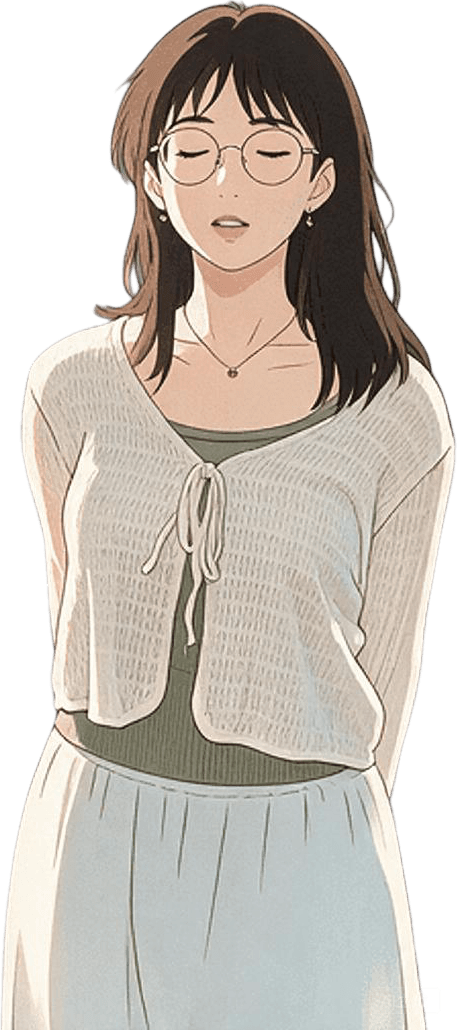
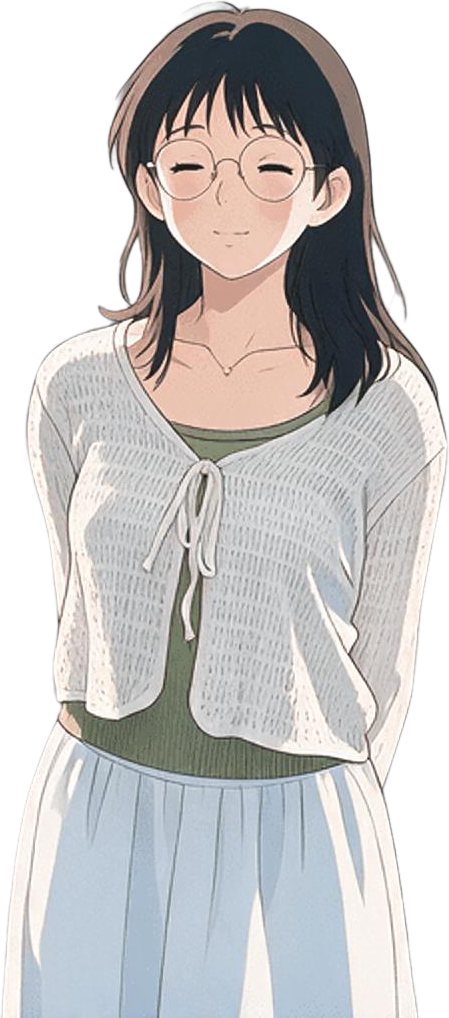
M109: 女角更少女+暗色融合/trio 演示合并飞鸟背景/手机竖屏/手写词标/站名归一（LESSONS 212-217）

diff --git a/site/assets/site.css b/site/assets/site.css
@@ -687,3 +687,51 @@ body::before { content: ""; position: fixed; inset: 0; z-index: 55; pointer-even
 .doorart { opacity: .5; z-index: 0; }
 .meng3 { right: 16.5%; }
 #tail { min-height: auto; padding-bottom: 70px; }
+
+/* ---------- M109-B trio+演示合并一块 ---------- */
+#trio .secinner { padding-bottom: 0; margin-bottom: 0; }
+#trio .ftabs { margin-top: 1svh; position: relative; z-index: 2; }
+#trio #animstage { margin-top: 8px; position: relative; z-index: 2; }
+#trio .cue { margin-top: 2svh; }
+.cloudlayer .cl { background: radial-gradient(50% 50% at 50% 50%, rgba(255, 255, 255, .06), transparent 70%); }
+#trio .cloudlayer .cl { background: radial-gradient(50% 50% at 50% 50%, rgba(255, 255, 255, .06), transparent 70%); }
+#animstage { background: radial-gradient(46% 38% at 50% 56%, color-mix(in srgb, var(--card) 6%, transparent), transparent 80%); }
+.triopairs, .triopair, .triopair .tie, .triomots, .worldchips { display: none !important; }
+
+/* ---------- M109-D 手写词标 ---------- */
+.wordmark { height: 20px; width: auto; margin-left: 2px; opacity: .92; user-select: none; }
+.wordmark--ft { height: 15px; opacity: .8; }
+:root[data-theme="dark"] .wordmark { opacity: .85; }
+
+/* ---------- M109-A 暗色女角融合 ---------- */
+:root[data-theme="dark"] #prologue .bigchar { filter: saturate(.84) contrast(.99) brightness(.88) drop-shadow(0 0 26px rgba(143, 208, 255, .12)); }
+
+/* ---------- M109-C 手机竖屏 ---------- */
+@media (max-width: 640px) {
+  #prologue .secinner.panel-left { padding-top: 12svh; }
+  #prologue .charwrap { height: 42svh; right: -4%; opacity: .96; }
+  #prologue .ident-bg .idf-video.on { opacity: .10; }
+  #petpark .charwrap { height: 38svh; }
+  .meng2 { display: none; }
+  .meng3 { height: 26svh; right: 4%; bottom: 6%; }
+  .doorart { display: none; }
+  #petpark .sketch, #trio .sketch { width: 120px !important; height: 160px !important; }
+  #trio .ftabs { margin-top: 1svh; overflow-x: auto; }
+  #trio #animstage { margin-top: 0; }
+  #trio #animstage svg { transform: none; width: 100%; height: auto; }
+  .proto-layout { grid-template-columns: minmax(0, 1fr) !important; }
+  .pagechips { flex-wrap: wrap; }
+  #tail .cards { grid-template-columns: 1fr; }
+  header.top .wrap { gap: 8px; }
+  .wordmark { height: 16px; }
+  .rail { display: none; }
+}
+
+/* ---------- M109-C2 手机竖屏修正 ---------- */
+@media (max-width: 640px) {
+  #prologue h1, #prologue .ph-title { font-size: clamp(24px, 7.6vw, 34px); line-height: 1.28; }
+  #prologue .charwrap { position: absolute; right: -10%; bottom: 2%; height: 40svh; width: auto; z-index: 0; }
+  #prologue .secinner { position: relative; z-index: 2; }
+  .copycap { max-width: 94vw; }
+  .copycap code { display: inline-block; vertical-align: middle; max-width: 58vw; overflow: hidden; text-overflow: ellipsis; white-space: nowrap; font-size: 10.5px; }
+}

diff --git a/site/assets/site.js b/site/assets/site.js
@@ -177,6 +177,7 @@
     // M94: logo 动图/标签图标随主题切换
     const lockSrc = `assets/logo-anim-${state.theme === "dark" ? "dark" : "light"}.webp`;
     document.querySelectorAll(".logolock").forEach((im) => { im.src = lockSrc; });
+    document.querySelectorAll(".wordmark").forEach((im) => { im.src = `assets/wordmark-${state.theme === "dark" ? "dark" : "light"}.png`; });
     const favs = [...document.querySelectorAll('link[rel="icon"]')];
     favs.forEach((fav) => { fav.href = state.theme === "dark" ? "assets/favicon-dark.png" : "assets/favicon.png"; });
 
@@ -387,7 +388,6 @@
     { const sel = document.getElementById("expselect"); if (sel && a) sel.value = a.app; }
     const side = document.getElementById("side");
     if (!a || !side) return;
-    document.title = `${L(a.name, a.app)} — design-clone gallery`;
     document.getElementById("stageframe").src = protoSrc(a, state.theme);
     const chips = document.getElementById("pagechips");
     if (chips) {
@@ -439,8 +439,8 @@
     // M91: logo 锁定为用户新标图片（mark+手写体锁排），替代渐变字标
     const LOCKSRC = () => `assets/logo-anim-${state.theme === "dark" ? "dark" : "light"}.webp`;
     const LOCK = (cls) => `<img class="${cls}" src="${LOCKSRC()}" alt="design-clone">`;
-    document.querySelectorAll(".logo").forEach((el) => { if (!el.querySelector(".logolock")) el.innerHTML = LOCK("logolock"); });
-    document.querySelectorAll(".ftbrand").forEach((el) => { el.innerHTML = LOCK("logolock logolock--ft"); });
+    document.querySelectorAll(".logo").forEach((el) => { if (!el.querySelector(".logolock")) el.innerHTML = LOCK("logolock") + '<img class="wordmark" src="assets/wordmark-light.png" alt="design-clone">'; });
+    document.querySelectorAll(".ftbrand").forEach((el) => { el.innerHTML = LOCK("logolock logolock--ft") + '<img class="wordmark wordmark--ft" src="assets/wordmark-light.png" alt="design-clone">'; });
 
     matchMedia("(max-width: 820px)").addEventListener("change", () => { if (document.getElementById("stageframe")) renderProto(); });
     const idn = document.getElementById("ident");

diff --git a/site/index.html b/site/index.html
@@ -103,11 +103,6 @@
   <div class="wrap secinner panel-center" data-rv>
     <span class="eyebrow" data-i18n="s4_eye">night rain front · three familiar worlds</span>
     <div class="ph-title" data-i18n="s4_t">Study replicas, faithfully cloned</div>
-    <div class="triopairs">
-      <span class="triopair"><span class="mot"><img src="assets/sk-cue.png" alt=""><i data-i18n="m_wechat">paper-plane cloud</i></span><span class="tie" aria-hidden="true"></span><button class="worldbtn" data-app="wechat" data-i18n="w_wechat">WeChat</button></span>
-      <span class="triopair"><span class="mot"><img src="assets/sk-cue.png" alt=""><i data-i18n="m_lark">birds across the moon</i></span><span class="tie" aria-hidden="true"></span><button class="worldbtn" data-app="lark" data-i18n="w_lark">Lark</button></span>
-      <span class="triopair"><span class="mot"><img src="assets/sk-cue.png" alt=""><i data-i18n="m_aliyun">sea of clouds</i></span><span class="tie" aria-hidden="true"></span><button class="worldbtn" data-app="aliyun-console" data-i18n="w_aliyun">Aliyun</button></span>
-    </div>
   </div>
 
     <div class="ftabs" id="ftabs"></div>

diff --git a/site/assets/demo-anim.js b/site/assets/demo-anim.js
@@ -11,7 +11,7 @@
 
   /* M81-W2: 可辨认迷你 UI 引导动画——每场景=品牌色板+真实微文案的矢量迷你界面（借 enrich/brief 经验） */
   const glow = `
-    <ellipse cx="260" cy="150" rx="252" ry="142" fill="var(--bg2)" opacity=".7"/>
+    <ellipse cx="260" cy="150" rx="252" ry="142" fill="var(--bg2)" opacity=".22"/>
     <circle cx="90" cy="70" r="60" fill="var(--acc)" opacity=".07"/>
     <circle cx="440" cy="220" r="70" fill="var(--acc2)" opacity=".08"/>`;
   const T = (x, y, str, size, fill, anchor, weight) => `<text x="${x}" y="${y}" font-size="${size}" fill="${fill}"${anchor ? ` text-anchor="${anchor}"` : ""}${weight ? ` font-weight="${weight}"` : ""} font-family="ui-rounded,-apple-system,'PingFang SC',sans-serif">${str}</text>`;

diff --git a/docs/LESSONS.md b/docs/LESSONS.md
@@ -240,3 +240,9 @@
 209. M108 默认值多源=错配 bug：expselect 用白名单序、embed 用 index 序→pill 与舞台不同步。教训：**同一语义的默认值只能有一个源**（WL_ORDER 常量），其余消费方一律反向同步（sel.value=a.app），e2e 断言多源一致。
 210. M108 CLI 传 base64 有 ARG_MAX 墙（~1MB）：照片原图 base64 进 argv 直接 "Argument list too long"。教训：生图参考图先 sharp 缩到 ≤768px/≤150KB 再入参；JSON 数组字符串元素必须带内引号（`["data:..."]`）。
 211. M108 sharp palette PNG 量化会毁 alpha 通道（角像素 0→255）：透明层优化用 `png({compressionLevel:9})` 无损，禁 palette；门（e2e alpha 审计）当场抓出。
+212. M109 i18n 空串=隐形件：`el.textContent = t(key)` 在词典缺键时写空串→微信/阿里云母题对整块隐形（用户只见飞书对）。教训：t() 缺键必须回退 EN 或原文本；e2e 加"可见交互件计数"断言防隐形。
+213. M109 双负 margin 相撞：ftabs -15svh + animstage -4svh 让舞台 cap 压住 chips 行→点击被拦截 e2e 超时。教训：负 margin 只允许单层牵引；相邻块叠压先 elementFromPoint 验点击点。
+214. M109 "白蛋"不在 CSS 层：cloudlayer/secbg/径向全调遍仍见蛋→真凶是 demo-anim.js svg 内部 `<ellipse fill=var(--bg2) opacity=.7>`。教训：截图里的几何色块先问"是不是插画自带"，grep 生成器源码再调 CSS。
+215. M109 抠白词标底噪：alpha=(255-lum) 线性映射把纸纹噪点留成低 alpha  veil→暗色头部出现矩形底。教训：抠白必须带噪点阈值（a<60 清零）再 gamma 拉升；暗色版重着色前先看噪。
+216. M109 seedream pro 尺寸下限 921600 像素：1536x256 词标直接拒。教训：横幅类资产按 ≥1024x1024 等效像素取尺寸（2048x512 过）。
+217. M109 手机竖屏先减后排：小屏第一动作是隐藏次要角色/母题（meng2/door/rail），再缩主角色入角落做前景，文案永远 z 上位+胶囊省略号；transform:scale 不缩布局盒→svg 小屏改 width:100% height:auto。

diff --git a/docs/SESSION-HANDOFF.md b/docs/SESSION-HANDOFF.md
@@ -65,6 +65,7 @@
 | **M84/M85/M88/M91/M93/M94** | 09-14→15 | 演示点击即播、选中框 rAF 活跟踪 + `sel-ring-align` 门、导出 `all.zip`、logo 换用户图 + 主题冰蓝、导航 logo 动图 webp、透明纯度 veil 门 | ❌ | ❌（M93/M94 仅在 SESSION-SUMMARY） |
 | **M99** | 09-16 | 架构图 v3（archify 双主题 SVG）；媒体引擎（provider 路由+genvideo+agent-native 协议+media 工具集）；门禁第二轮（bg 覆盖/.far 豁免/选中语义）；两 demo 体感修复（PR#67）；官网新海诚重绘；数据线审计；全身立绘 v2+透明人物层（seedream pro） | ✅ | ✅ |
 | **M100–M102** | 09-16 | 指挥闭环定版（media-consent/plan/verify 三件套+官方 skill 桥）；标准 Ark key 直连档（仓外 0600+掩码+DELETE 止损）；media-strategy 总纲；Seedance 2.0-mini 实测履约（星海/耳廓狐 idle 视频，安全体验模式=SetLimitExceeded 真因）；双 demo 视频 hero 层（PR#69/#70） | ✅ | ✅ CHANGELOG |
+| **M109** | 09-17 | 精修二轮：女角更少女+暗色融合/trio 演示合并飞鸟背景/手机竖屏/手写词标/站名归一；LESSONS 212-217 | ✅ | ✅ CHANGELOG |
 | **M108** | 09-17 | 站点精修终版：hub 默认同源/ident 背景化/透明融合硬法+alpha 门/萌萌缪斯三角色/去框去白；审美验收双主题六段过；LESSONS 206-211 | ✅ | ✅ CHANGELOG |
 | **M107** | 09-17 | 素雅视觉换装：段序重排 hub 上提+ident/复制胶囊恢复+段背景视频(secvid IO)+萌萌三元素素描+明信片散落+降彩度纸纱；e2e 契约全绿 | ✅ | ✅ CHANGELOG |
 | **M106** | 09-17 | 首页六段新海诚叙事（萌萌参考 5 画+大人物段+红线+原野之门）；画廊独立页+菱形星点/素描门双入口；安装引导全链路删除；错位时空改名归一；贡献者归一 hello-cqq；e2e 大人物契约 | ✅ | ✅ CHANGELOG |

diff --git a/CHANGELOG.md b/CHANGELOG.md
@@ -5,6 +5,9 @@ The format follows [Keep a Changelog](https://keepachangelog.com/); versioning i
 
 ## [Unreleased]
 
+### M109
+- 站点精修二轮：S1 女角更少女重制（身份保真+冷调）+暗色 brightness/saturate 融合；trio 删 triopairs（灭 i18n 空串隐形件）+演示上移与飞鸟云带合并一块+svg 内椭圆降透；手机竖屏适配（≤640 减法布局）；logo 补手写词标 design-clone（亮暗双版透明 png）；站名归一（删动态 document.title）。LESSONS #212–217。
+
 ### M108
 - 站点精修终版：hub 默认四源同源（WL_ORDER）；ident 整段背景化（去角隅 vignette/heroambient）；透明融合硬法（quality-standard 2.6）——char-rift/char-fox/sk-vines/sk-door 图层拆分透明，删 sk-lake/sk-corner/sk-duo/sk-basket/char-rain；萌萌=站点缪斯三角色（char-meng1/2/3，照片风格转换身份保真+拆透明，尺度语言 74svh/21vw/42svh）；接地软阴影+暗色 rim glow；animstage 去白卡；trio 母题-钮配对+素描连线；cloudlayer 降白；e2e 新增四源断言+alpha 审计门。LESSONS #206–211。
 
